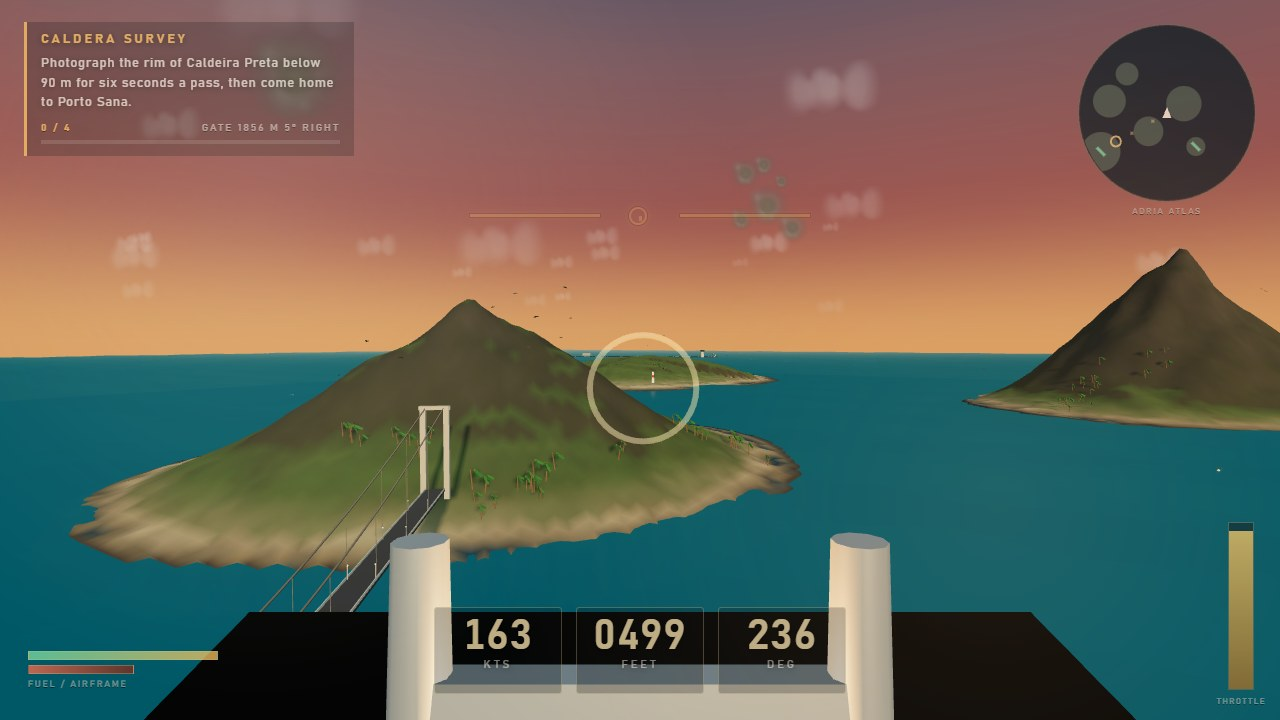
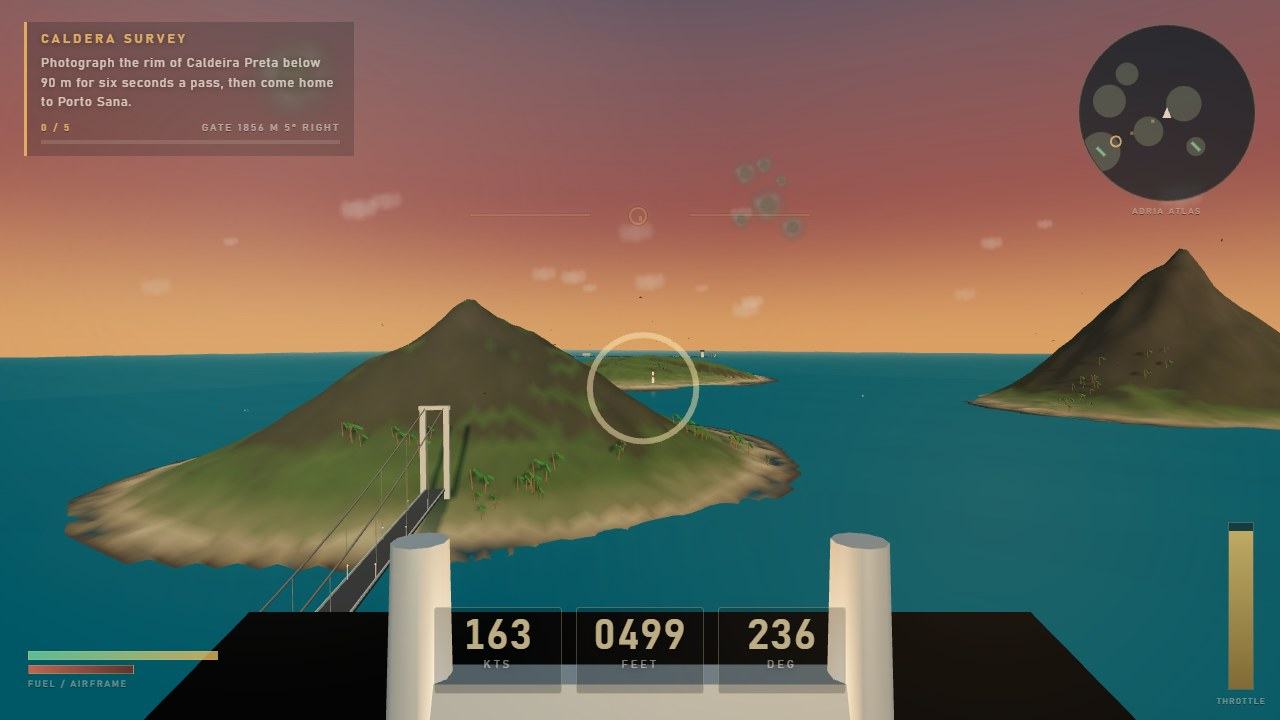
Quieter pitch ladder

diff --git a/game/ui/hud.css b/game/ui/hud.css
@@ -51,8 +51,8 @@ html, body {
   background: var(--amber);
   box-shadow: 0 0 0 1px rgba(10, 12, 14, 0.5), 0 0 6px rgba(255, 195, 92, 0.6);
 }
-.pit-horizon::before { left: 0; top: 118px; width: 130px; height: 3px; }
-.pit-horizon::after { right: 0; top: 118px; width: 130px; height: 3px; }
+.pit-horizon::before { left: 0; top: 118px; width: 120px; height: 2px; opacity: 0.55; }
+.pit-horizon::after { right: 0; top: 118px; width: 120px; height: 2px; opacity: 0.55; }
 .pit-horizon span {
   position: absolute;
   left: 50%;
